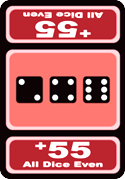
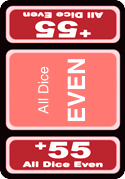
2P gameMightEnd works right now. Changed the Even / Odd card images to text.

Changed region(s): [[0.12, 0.3073, 0.888, 0.6983]]

diff --git a/Sixis/SixisTemp/SixisPlayersType.m b/Sixis/SixisTemp/SixisPlayersType.m
@@ -28,8 +28,7 @@
     NSArray *cards = [self.game.cardsInPlay objectsAtIndexes:indexSet];
     BOOL cardFound = NO;
     for (NSObject *object in cards) {
-//        if ([object isMemberOfClass:[SixisCard class]]) {
-        if ( object ) {
+        if ( ![object isEqual:[NSNull null]] ) {
             cardFound = YES;
             break;
         }
